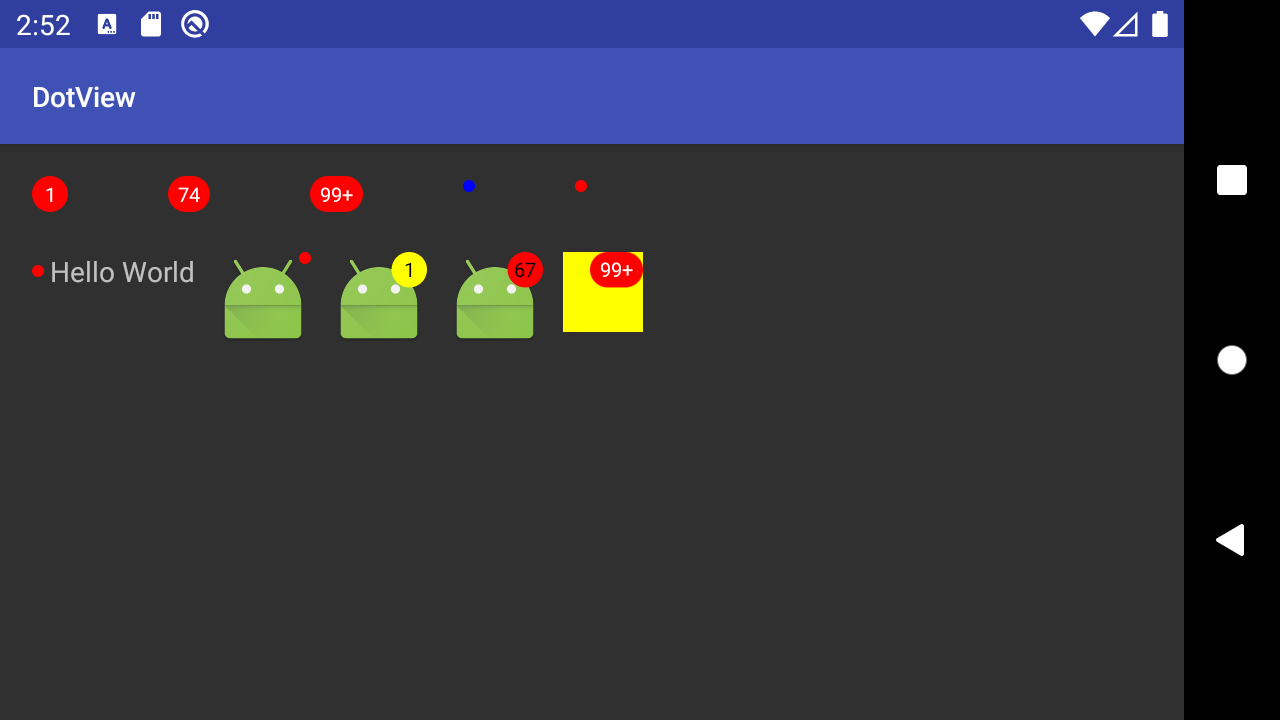
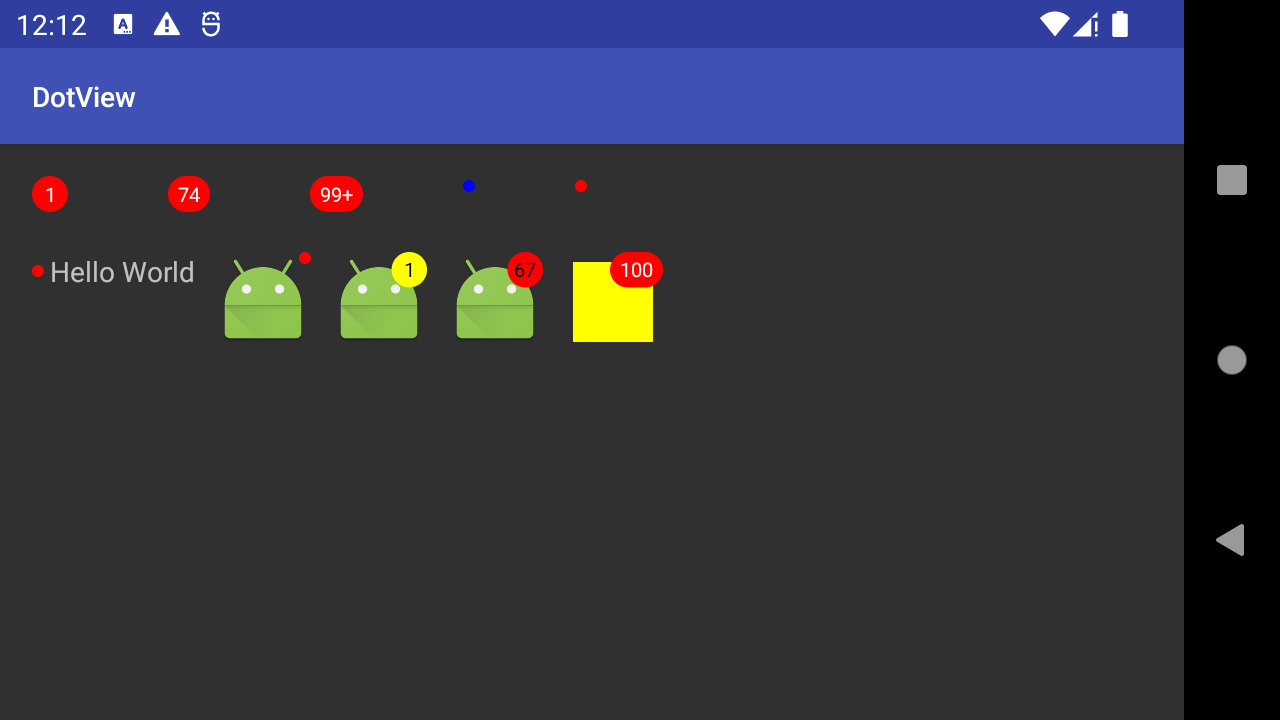
v2.0.4

diff --git a/README.md b/README.md
@@ -22,7 +22,7 @@ allprojects {
 # module build.gralde
 dependencies {
     ...
-    implementation 'com.github.mengxn:dotview:2.0.0' // 不向下兼容1.X.X
+    implementation 'com.github.mengxn:dotview:2.0.4' // 不向下兼容1.X.X
 }
 ```
 
@@ -51,12 +51,15 @@ dotRadius：圆点半径值
 <me.codego.view.DotLayout
     android:layout_width="wrap_content"
     android:layout_height="wrap_content"
+    app:dotMarginEnd="-5dp"
+    app:dotMarginTop="-5dp"
     app:dotPaddingHorizontal="5dp"
     app:dotPaddingVertical="3dp"
     app:dotRadius="3dp"
     app:dotColor="#f00"
     app:dotTextColor="#FFF"
-    app:dotTextSize="10sp" >
+    app:dotTextSize="10sp"
+    app:dotType="plus" >
 
     <ImageView
         android:layout_width="wrap_content"
@@ -69,8 +72,11 @@ dotTextColor：圆点前景色，即数字显示颜色
 dotTextSize：字号大小  
 dotRadius：圆点半径值  
 dotPaddingHorizontal：圆点前后padding  
-dotPaddingVertical：圆点上下padding  
-dotLocation：圆点位置：left：左侧；right：右侧  
+dotPaddingVertical：圆点上下padding
+dotMarginTop: 圆点上margin值
+dotMarginEnd: 圆点右margin值
+dotLocation：圆点位置：left：左侧；right：右侧
+dotType: 圆点数字超限显示方式: normal:不限制；ellipsis：省略号形式；plus：99+形式
 
 2. 调用代码进行展示
 - 仅显示提示  
